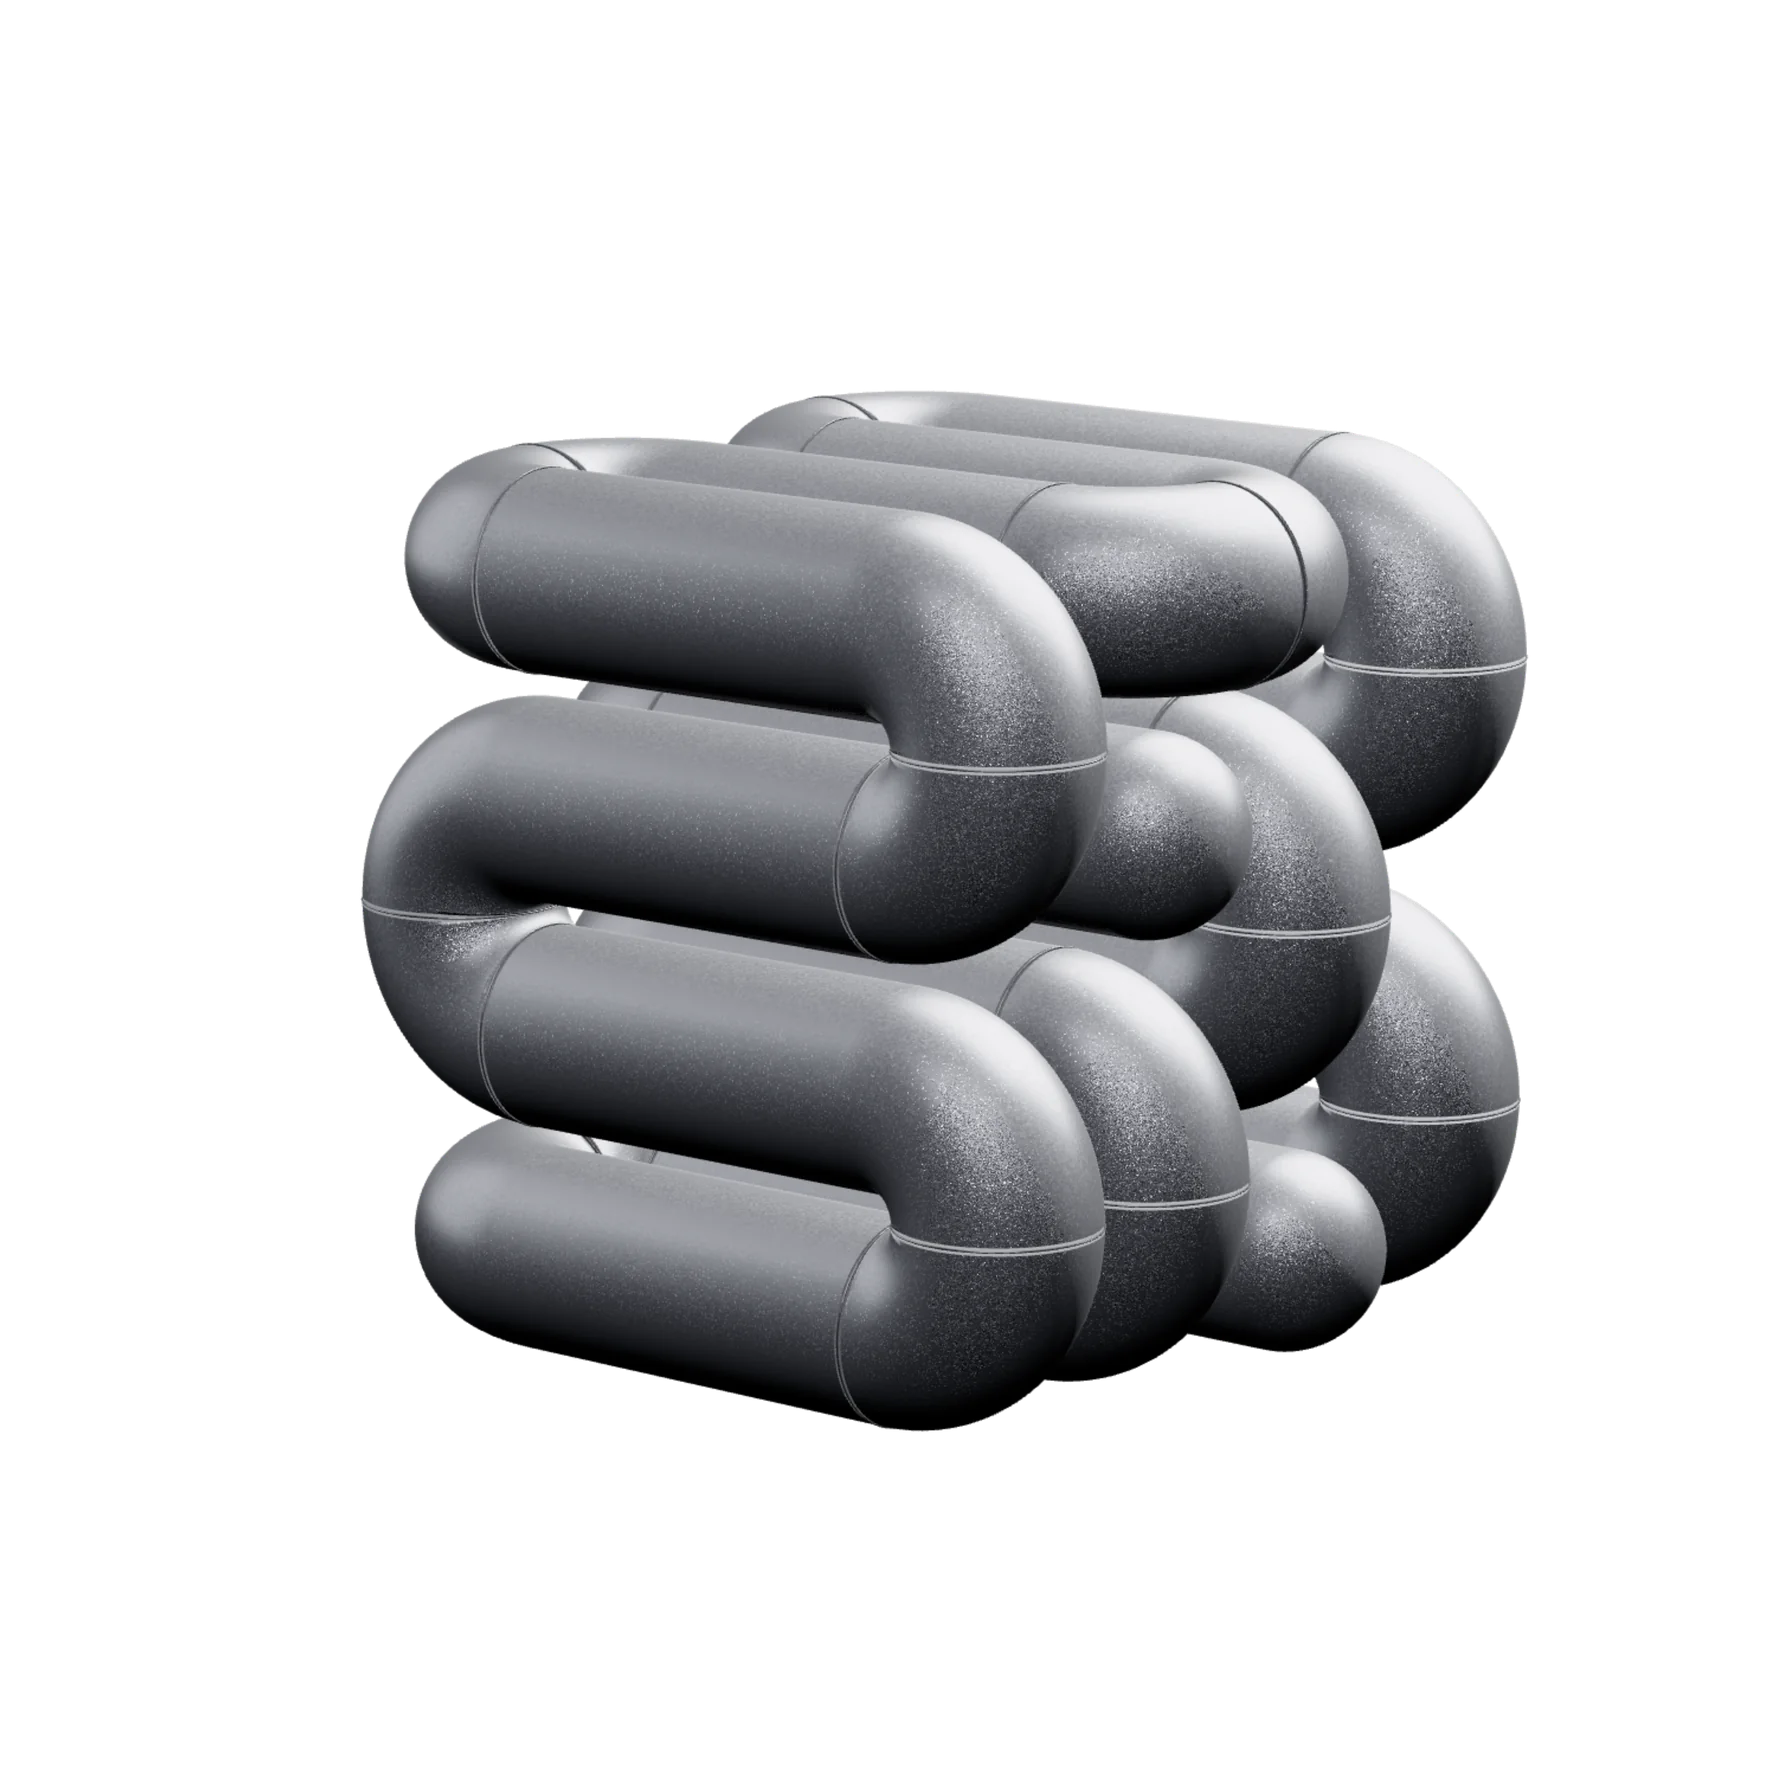
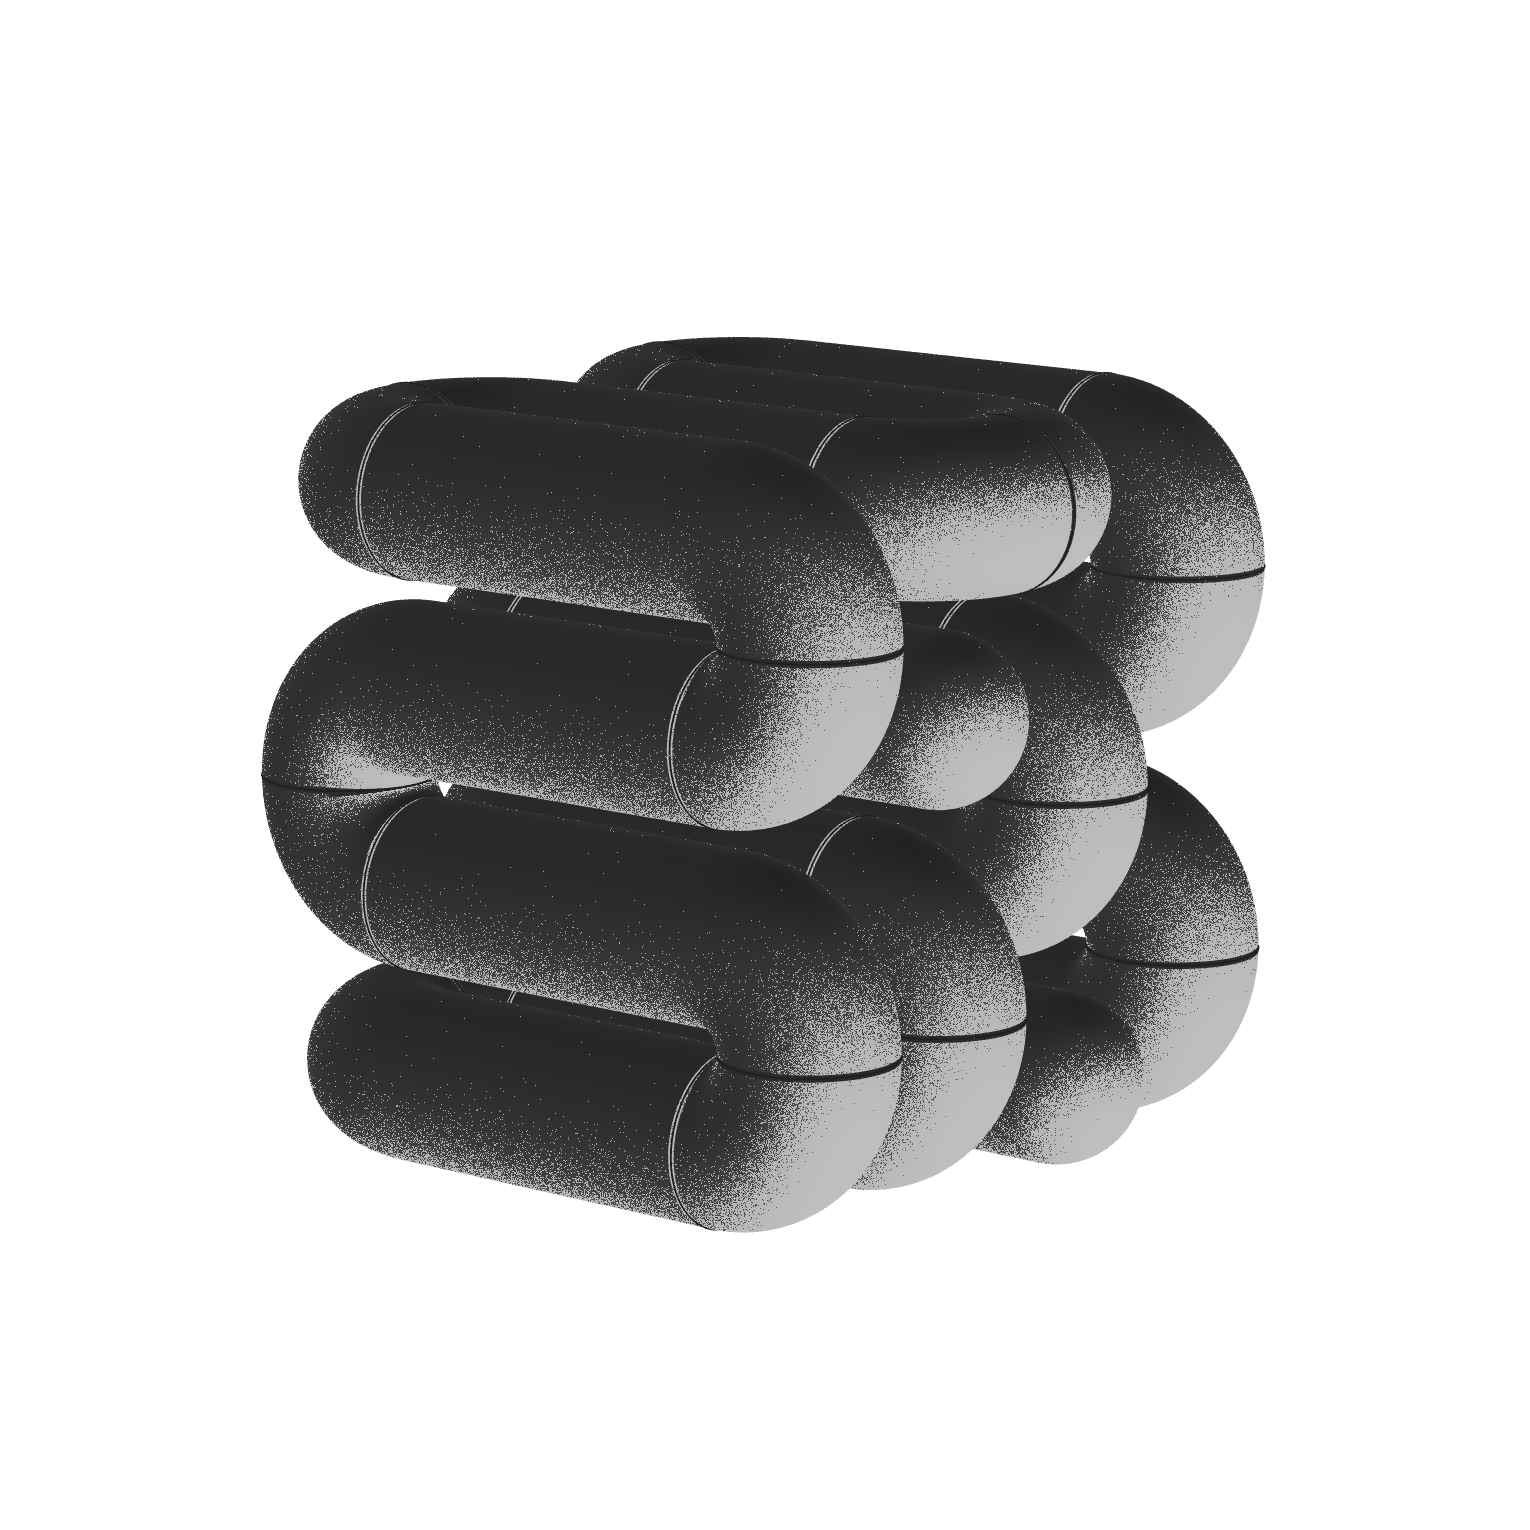
立体を黒い粒子の質感にし、最初のスクロールから関節も動かす
参考画像に合わせ、銀色の金属から「炭のような黒い地に、光の当たる
ところだけ白い粒が密に浮かぶ」質感へ。明るさを画素ごとに白い粒の
出る確率へ置き換える（lib/sykim/grain.ts）。光はカメラに固定し、
上は暗く、手前の下側と縁が白く光る。継ぎ目は光を当てず暗い溝にする。
銀色の設定（look.ts）は残してある。

場つなぎの静止画 form-hero.webp も同じ姿・向きで焼き直した
（開発時だけ window.__heroSnap__ で焼ける）。

一番上の待ちを手前側だけにし、下へのスクロールでは最初のひと送りから
回転と一緒に関節も動き出すようにした。

Changed region(s): [[0.1536, 0.215, 0.8601, 0.8294]]

diff --git a/src/components/HeroObject.tsx b/src/components/HeroObject.tsx
@@ -3,7 +3,8 @@
 import { useEffect, useRef, useState } from "react";
 // 実体は動的に読み込む。型だけ静的に借りる
 import type * as THREE_T from "three";
-import { LOOK, applyLook } from "@/lib/sykim/look";
+import { LOOK } from "@/lib/sykim/look";
+import { makeGrainMaterial } from "@/lib/sykim/grain";
 import { POSES } from "@/lib/sykim/poses";
 import { makeHitTest } from "@/lib/sykim/collide";
 
@@ -159,35 +160,25 @@ export function HeroObject({
       }
       const model = gltf.scene;
 
-      // ── 素材（元ファイルの見た目をそのまま当てる）
+      // ── 素材: 黒い地に白い粒が浮く質感（lib/sykim/grain.ts）。
+      // 銀色の金属（lib/sykim/look.ts の applyLook）から 2026-11-06 に差し替えた。
       // あわせて丸棒を「繋がっている順」に集める。めり込み判定がこの並びを使う
-      let baseMat: THREE_T.MeshStandardMaterial | null = null;
+      const grainMat = makeGrainMaterial(THREE);
+      // 継ぎ目は輪が少し張り出していて、光を当てると明るい線になる。
+      // 参考の見た目では部品の境目は暗い溝なので、光を当てずに地の黒で塗る
+      const seamMat = makeGrainMaterial(THREE, { key: 0, fill: 0, rim: 0 });
       const meshes: THREE_T.Mesh[] = [];
       model.traverse((o) => {
         const m = o as THREE_T.Mesh;
-        if (!m.isMesh || !m.material || m.name.startsWith("seam")) return;
-        if (!baseMat) {
-          baseMat = m.material as THREE_T.MeshStandardMaterial;
-          applyLook(THREE, baseMat, L);
+        if (!m.isMesh || !m.material) return;
+        // 部品の継ぎ目も本体と同じ素材にして、線として見せない。
+        // ⚠ 隠さないこと。継ぎ目は部品のすき間を埋めていて、隠すと地が透けて線になる
+        if (m.name.startsWith("seam")) {
+          m.material = seamMat;
+          return;
         }
-        m.material = baseMat!;
-        (m.material as THREE_T.Material).side = THREE.FrontSide;
+        m.material = grainMat;
         meshes.push(m);
-      });
-      // 繋ぎ目は本体と同じ金属味で、色だけ少し暗く
-      const sd = 0.55;
-      const b = L.mat.base;
-      const done = new Set<string>();
-      model.traverse((o) => {
-        const m = o as THREE_T.Mesh;
-        if (!(m.isMesh && m.name.startsWith("seam"))) return;
-        const sm = m.material as THREE_T.MeshStandardMaterial;
-        if (done.has(sm.uuid)) return;
-        done.add(sm.uuid);
-        sm.color.setRGB(b[0] * sd, b[1] * sd, b[2] * sd, THREE.LinearSRGBColorSpace);
-        sm.metalness = L.mat.metallic;
-        sm.roughness = (L.mat.rough_min + L.mat.rough_max) / 2;
-        sm.needsUpdate = true;
       });
 
       // 関節を J00〜J29 の順に集める
@@ -561,10 +552,11 @@ export function HeroObject({
         (window.scrollY / Math.max(1, window.innerHeight)) * MOTION_PER_SCREEN;
       const legEnd = (l: Leg) => l.start + l.plan.total;
       const legs: Leg[] = [];
-      /** motion の位置に、畳まれた塊を置く。触れた瞬間にはほどけないよう、少し前後に幅をとる */
+      /** motion の位置に、畳まれた塊を置く */
       const anchor = (v: number) => {
         legs.length = 0;
-        legs.push({ start: v - 0.6, plan: holdPlan(POSES[0], 1.2), fromIndex: 0, toIndex: 0 });
+        // 待ちは手前側にだけ置く。下へのスクロールでは、最初のひと送りから関節も動く
+        legs.push({ start: v - 0.6, plan: holdPlan(POSES[0], 0.6), fromIndex: 0, toIndex: 0 });
       };
       const extendForward = () => {
         const last = legs[legs.length - 1];
@@ -713,6 +705,15 @@ export function HeroObject({
         renderer.render(scene, camera);
       });
 
+      // 開発時だけ、場つなぎの静止画（public/img/form-hero.webp）を焼き直す口を出す。
+      // ページの一番上で呼ぶと、開いた瞬間と同じ姿・同じ向きの絵が透過PNGで返る
+      if (process.env.NODE_ENV !== "production") {
+        (window as unknown as { __heroSnap__?: () => string }).__heroSnap__ = () => {
+          renderer.render(scene, camera);
+          return renderer.domElement.toDataURL("image/png");
+        };
+      }
+
       setReady(true);
       cleanup = () => {
         resetRef.current = null;
@@ -754,7 +755,7 @@ export function HeroObject({
         <div aria-hidden className="aspect-square w-full" />
         <img
           src="/img/form-hero.webp"
-          alt="つや消しの銀色をした、用途の定まらないかたち"
+          alt="黒い地に白い粒が浮かぶ、用途の定まらないかたち"
           decoding="async"
           data-ready={ready}
           className="absolute inset-0 h-full w-full data-[ready=true]:opacity-0"

diff --git a/src/lib/sykim/grain.ts b/src/lib/sykim/grain.ts
@@ -1,0 +1,102 @@
+import type * as THREE_T from "three";
+
+/**
+ * 黒い粒子の質感（2026-11-06 ユーザー指定の参考画像に合わせたもの）。
+ *
+ * 炭のような黒い地に、光の当たるところだけ白い粒が密に浮かぶ。
+ * 明るさを「その画素が白い粒になる確率」に置き換えて描く（点描の考え方）。
+ *
+ * 光はカメラに対して固定している。物体が回っても、いつも
+ * 「上は暗く、手前の下側と縁が白く光る」見え方になる。
+ *
+ * 銀色の金属（look.ts）は残してある。戻すときは HeroObject で
+ * makeGrainMaterial の代わりに applyLook を使う。
+ */
+export const GRAIN = {
+  /** 地の黒（画面の色そのまま。0〜1） */
+  dark: [0.12, 0.12, 0.125],
+  /** 粒の白 */
+  light: [0.93, 0.93, 0.94],
+  /** 主光: 右下手前から（カメラから見た向き。x=右, y=上, z=手前） */
+  keyDir: [0.55, -0.6, 0.6],
+  key: 1.0,
+  /** 補助光: 左から弱く */
+  fillDir: [-0.85, -0.1, 0.35],
+  fill: 0.2,
+  /** 縁の光（輪郭が白く抜ける） */
+  rim: 0.35,
+  /** どこにも光が当たらない面の明るさ */
+  ambient: 0.0,
+  /** 粒の大きさ（画面の画素数） */
+  grainPx: 1,
+  /** 粒にならない、なめらかな明るさの割合。0 で粒だけ、1 で粒なし */
+  smooth: 0.35,
+};
+
+export function makeGrainMaterial(
+  THREE: typeof THREE_T,
+  over: Partial<typeof GRAIN> = {},
+) {
+  const g = { ...GRAIN, ...over };
+  const v3 = (a: number[]) => new THREE.Vector3(a[0], a[1], a[2]).normalize();
+  const c3 = (a: number[]) => new THREE.Vector3(a[0], a[1], a[2]);
+  return new THREE.ShaderMaterial({
+    // 色は画面の色そのままで書く。トーンマッピングを通すと黒が浮く
+    toneMapped: false,
+    uniforms: {
+      uDark: { value: c3(g.dark) },
+      uLight: { value: c3(g.light) },
+      uKeyDir: { value: v3(g.keyDir) },
+      uFillDir: { value: v3(g.fillDir) },
+      uKey: { value: g.key },
+      uFill: { value: g.fill },
+      uRim: { value: g.rim },
+      uAmb: { value: g.ambient },
+      uGrainPx: { value: g.grainPx },
+      uSmooth: { value: g.smooth },
+    },
+    vertexShader: /* glsl */ `
+      varying vec3 vN;
+      varying vec3 vP;
+      void main() {
+        vec4 mv = modelViewMatrix * vec4(position, 1.0);
+        vP = mv.xyz;
+        vN = normalize(normalMatrix * normal);
+        gl_Position = projectionMatrix * mv;
+      }
+    `,
+    fragmentShader: /* glsl */ `
+      uniform vec3 uDark, uLight, uKeyDir, uFillDir;
+      uniform float uKey, uFill, uRim, uAmb, uGrainPx, uSmooth;
+      varying vec3 vN;
+      varying vec3 vP;
+      // 画素ごとの乱数。粗い式だと粒が格子状に並んで見えるので、偏りの少ない式を使う
+      float hash(vec2 p) {
+        vec3 p3 = fract(vec3(p.xyx) * 0.1031);
+        p3 += dot(p3, p3.yzx + 33.33);
+        return fract((p3.x + p3.y) * p3.z);
+      }
+      void main() {
+        vec3 n = normalize(vN);
+        if (!gl_FrontFacing) n = -n;
+        vec3 v = normalize(-vP);
+        // やわらかく回り込む光（真横でもわずかに残す）
+        float key = clamp((dot(n, uKeyDir) + 0.15) / 1.15, 0.0, 1.0);
+        float fill = clamp((dot(n, uFillDir) + 0.1) / 1.1, 0.0, 1.0);
+        float rim = pow(1.0 - clamp(dot(n, v), 0.0, 1.0), 3.0);
+        // 主光は狭く絞る。広く当てると白い面が地のベージュに溶ける
+        float I = uAmb + uKey * key * key + uFill * fill + uRim * rim;
+        I = clamp(I, 0.0, 1.0);
+
+        // 明るさを、白い粒が出る確率にする。画素ごとに固定の乱数と比べる
+        float r = hash(floor(gl_FragCoord.xy / uGrainPx));
+        float p = smoothstep(0.1, 1.0, I);
+        float dotOn = step(r, p * p * (3.0 - 2.0 * p));
+
+        vec3 base = mix(uDark, uLight, I * uSmooth);
+        vec3 col = mix(base, uLight, dotOn * (1.0 - uSmooth));
+        gl_FragColor = vec4(col, 1.0);
+      }
+    `,
+  });
+}
